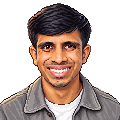
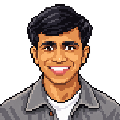
Simplify Ashvin portrait into clean-shaven pixel art

diff --git a/output/imagegen/profiles/ashvin-praveen-prompt.md b/output/imagegen/profiles/ashvin-praveen-prompt.md
@@ -5,3 +5,7 @@ Generated with the built-in image tool using `ashvin-profile.png` from Ashvin's 
 Prompt: Square pixel-art head-and-shoulders portrait, warm medium brown skin, black side-swept hair, dark brown eyes, friendly toothy smile, subtle moustache and chin stubble, grey overshirt over white crew-neck. Match the resident portraits' chunky square pixels, natural multi-tone shading, warm upper-left lighting and crisp stepped edges. Center the head, preserve a margin above the hair, shoulders meet the bottom edge. Transparent background, no scenery, chair, text, frame, halo or shadow plate.
 
 The generated PNG was reduced to 120×120 using nearest-neighbour sampling with Sharp, preserving alpha, for the same integer-scaled rendering as the other residents.
+
+## Revision: clearer pixel art and clean-shaven face
+
+Edited with the built-in image tool using the prior portrait. Prompt: Preserve identity, hairstyle, smile, clothing, framing and transparency. Remove all moustache, beard, stubble and beard shadow. Redraw the face with large flat connected pixel clusters, limited palette, 3–4 skin shades, simple angular facial features and a single teeth cluster. Apply consistent chunky pixels throughout; avoid fine facial detail, gradients, individual hairs or teeth, dithering and antialiasing. Reduced to 120×120 with nearest-neighbour sampling, preserving alpha.
